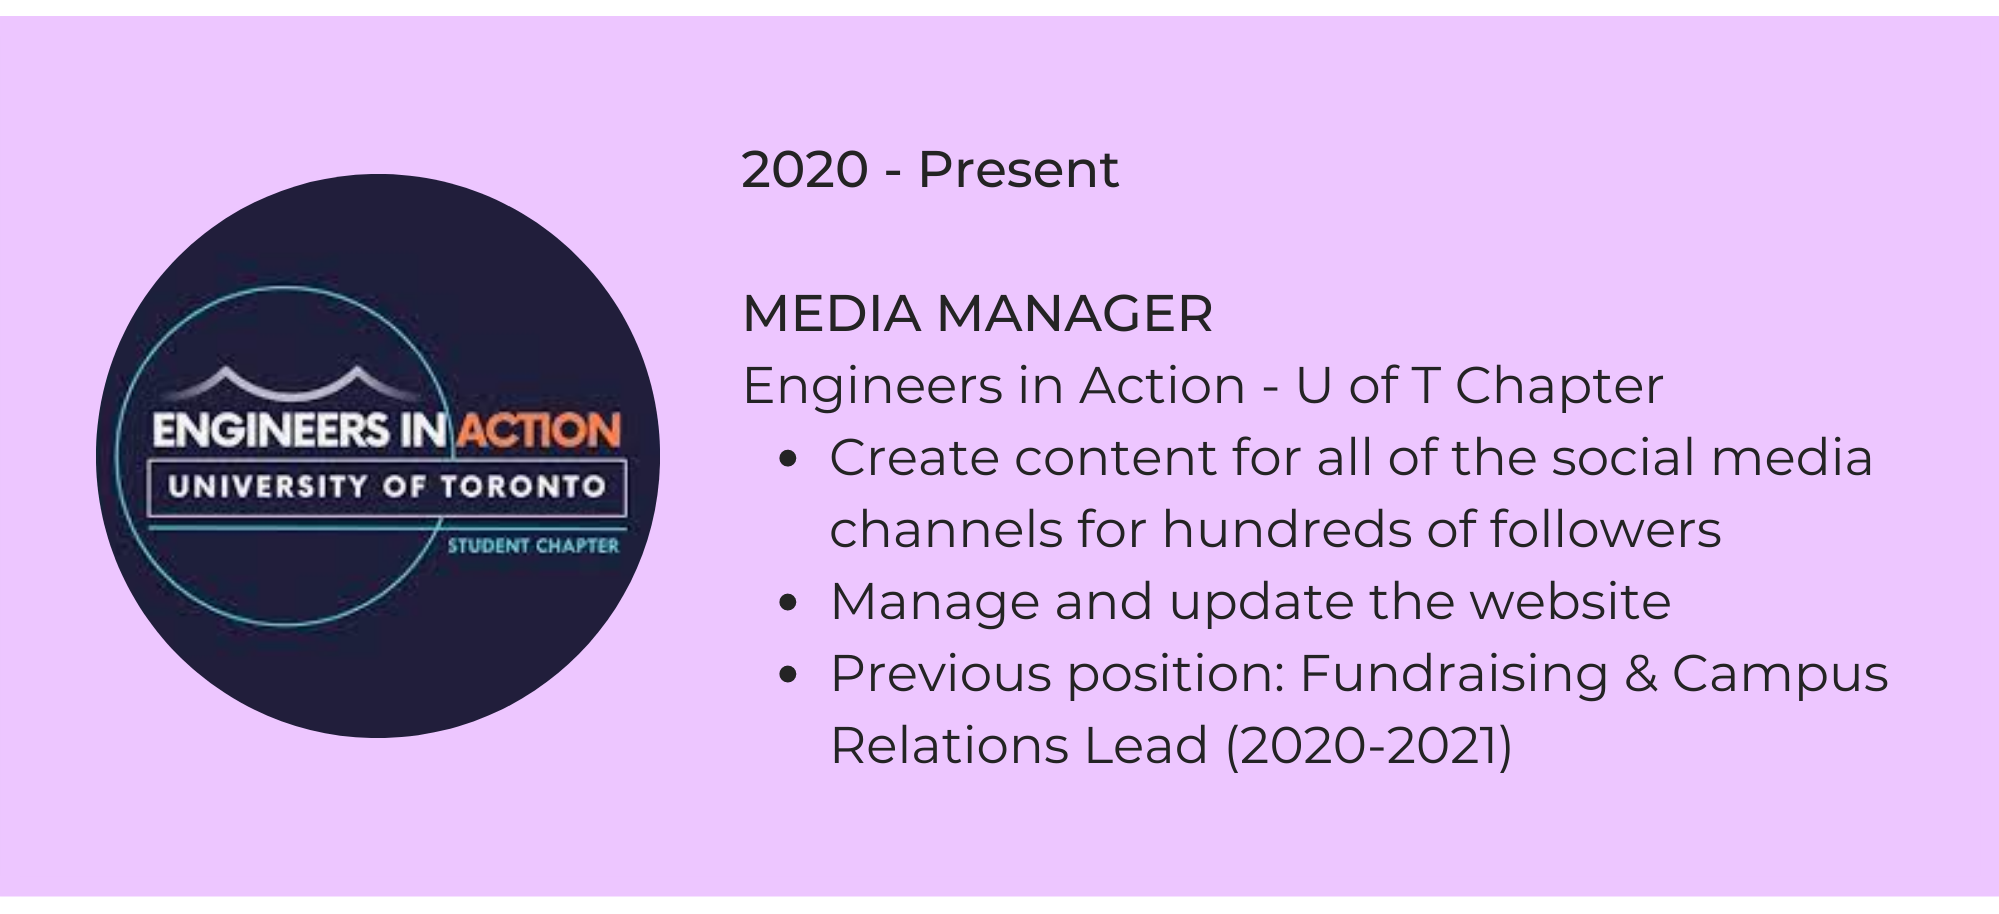
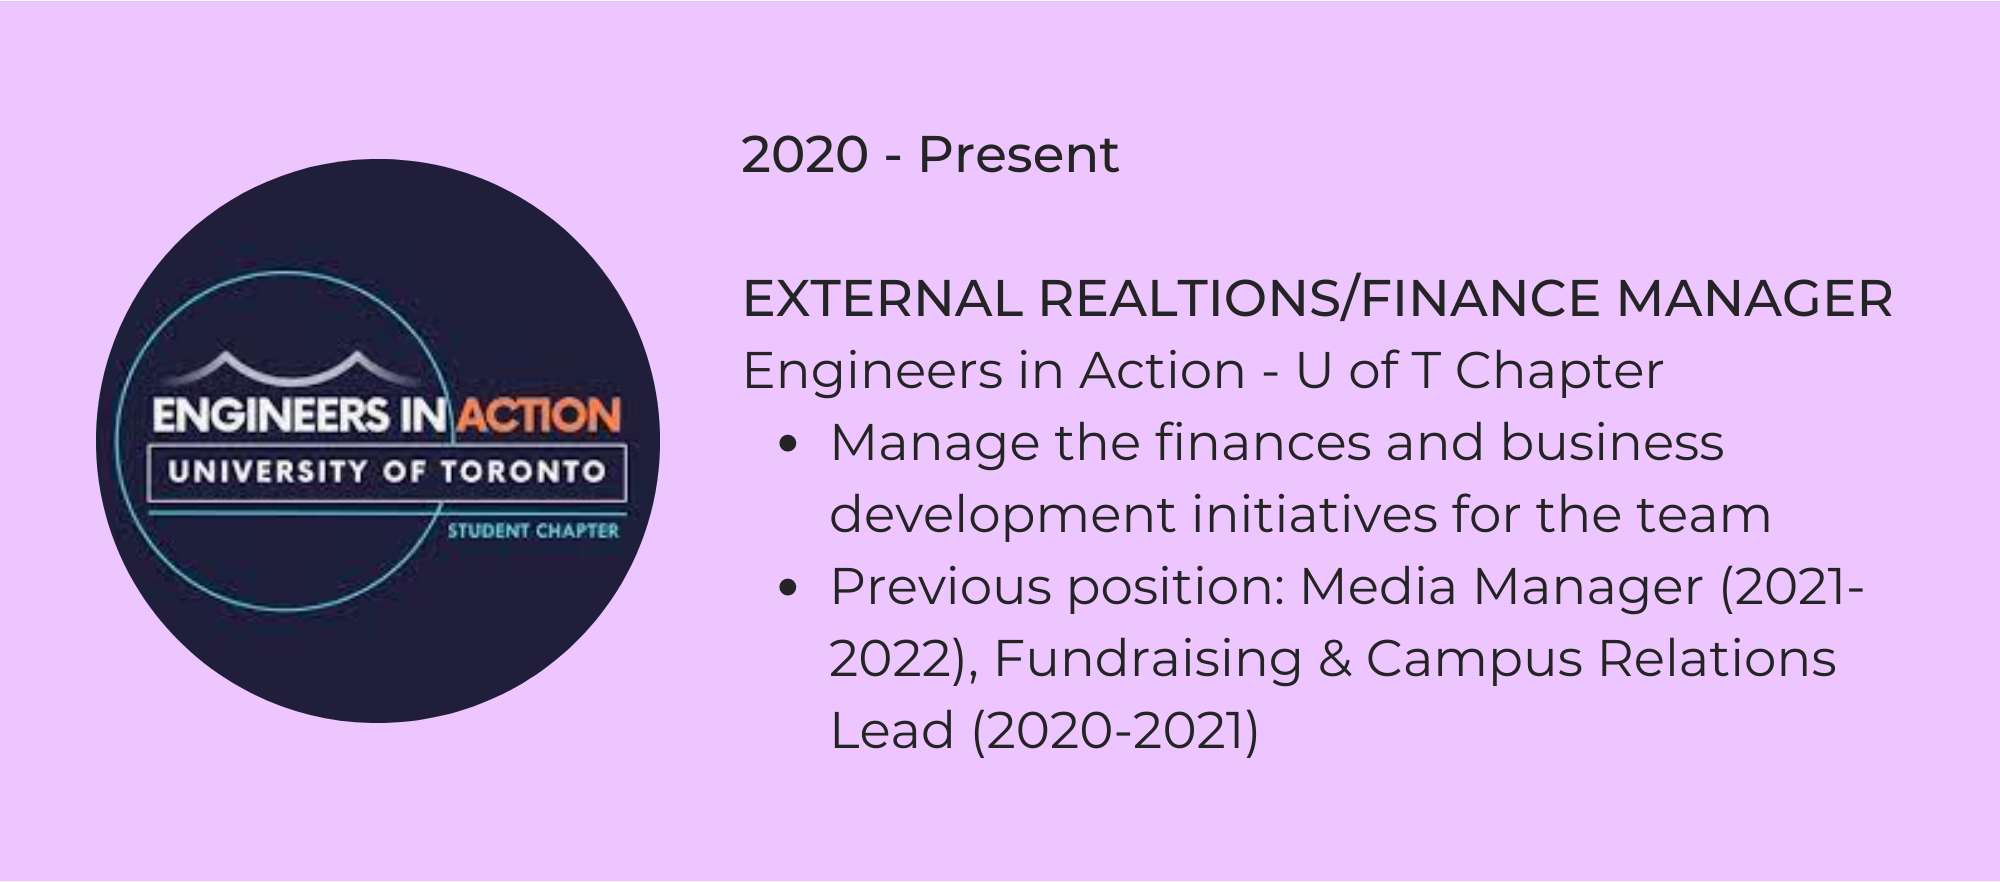
Update information and fix bugs

diff --git a/Skills.html b/Skills.html
@@ -48,6 +48,7 @@
         <div style="display: block; margin-left: auto; margin-right: auto; margin-top:10px;width:50%"> <img src="Edu1.png" style="width:100%;"> </div>
         <div style="display: block; margin-left: auto; margin-right: auto; margin-top:20px; width:50%;"> <img src="Edu2.png" style="width:100%;"> </div>
     <h3> Experience </h3>
+        <div style="display: block; margin-left: auto; margin-right: auto; margin-top:10px; width:50%;"> <img src="Exp5.png" style="width:100%;"> </div>
         <div style="display: block; margin-left: auto; margin-right: auto; margin-top:10px; width:50%;"> <img src="Exp1.png" style="width:100%;"> </div>
         <div style="display: block; margin-left: auto; margin-right: auto; margin-top:20px; width:50%;"> <img src="Exp2.png" style="width:100%;"> </div>
         <div style="display: block; margin-left: auto; margin-right: auto; margin-top:20px; width:50%;"> <img src="Exp3.png" style="width:100%;"> </div>

diff --git a/index.html b/index.html
@@ -46,7 +46,7 @@
             <div style="width: 70%; float: left;">
                 <p>
                     Hi there, my name is Emily Hu!
-                    I am a second year computer engineering student at the University of Toronto. When I'm not busy studying, I love to read, 
+                    I am a third year computer engineering student minoring in business at the University of Toronto. When I'm not busy studying, I love to read, 
                     bake, listen to music, and play sports. I am always up to learn something new, connect with more people, 
                     and work together as a team to tackle any challenges. I look forward to gaining new experiences and building upon my skills in the future. 
                     I love programming and I hope to teach others about the joy of coding through this website. 

diff --git a/RisingWaters.html b/RisingWaters.html
@@ -39,8 +39,8 @@
     <p> To play the game: <a href="https://github.com/emihu/rising-waters">RISING WATERS</a> </p>
     <p> Pictures of the game: </p>
     <img src="RisingWaters1.png" style="margin-left:32px;margin-bottom:20px;width:45%;">
-    <img src="RisingWaters2.png" style="margin-left:32px;margin-bottom:20px;width:45%;">
-    <img src="RisingWaters3.png" style="margin-left:32px;width:45%;">
+    <img src="RisingWaters2.PNG" style="margin-left:32px;margin-bottom:20px;width:45%;">
+    <img src="RisingWaters3.PNG" style="margin-left:32px;width:45%;">
     <img src="RisingWaters4.PNG" style="margin-left:32px;width:45%;">
     <p></p>
 </body>
